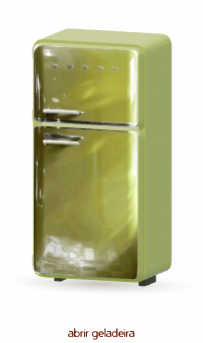
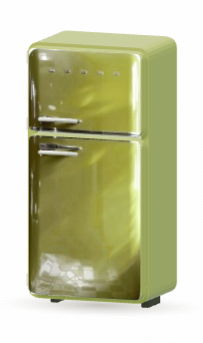
feat(geladeira): guardar fotografias cartas e lembranças no interior

Changed region(s): [[0.1182, 0.0875, 0.8867, 0.9038], [0.3251, 0.9621, 0.6798, 0.9913], [0.3251, 0.0583, 0.3842, 0.0875]]

diff --git a/Kimi_Agent_HIPOCAMPO 3D Interactive Site/hipocampo/public/assets/fridge-showcase.js b/Kimi_Agent_HIPOCAMPO 3D Interactive Site/hipocampo/public/assets/fridge-showcase.js
@@ -6,15 +6,13 @@ export function mountFridgeShowcase(figure) {
   const button = document.createElement('button')
   button.type = 'button'
   button.className = 'fridge-showcase-toggle'
-  button.setAttribute('aria-label', 'Abrir geladeira')
+  button.setAttribute('aria-label', 'Abrir geladeira de memórias')
+  button.setAttribute('aria-description', 'Um arquivo de lembranças: fotografias do acervo, cartas, uma chave e uma fita cassete.')
   button.setAttribute('aria-pressed', 'false')
-  const label = document.createElement('span')
-  label.className = 'fridge-showcase-label'
-  label.textContent = 'abrir geladeira'
-  button.append(label)
   figure.append(button)
   let renderer, scene, camera, model, resize, observer, texture, environment, frame = 0
   let aspect = 1, projectedBounds = null
+  const memoryItems = []
   let open = false, visible = false, angle = 0, target = 0, previous = 0, disposed = false
   const reduced = matchMedia('(prefers-reduced-motion: reduce)')
   const doors = [], geometries = new Set(), materials = new Set(), maps = new Set()
@@ -118,9 +116,78 @@ export function mountFridgeShowcase(figure) {
     environment = pmrem.fromScene(studio, .06)
     scene.environment = environment.texture; pmrem.dispose()
   }
+  const addMemoryArchive = async body => {
+    // Reuse the actual archive images already present on the site.
+    const archiveMaps = await Promise.all(['/images/trail/photo-1.webp', '/images/trail/photo-2.webp', '/images/sobre/gif-3.webp'].map(async url => {
+      try {
+        const map = await new THREE.TextureLoader().loadAsync(url)
+        if (disposed) { map.dispose(); return null }
+        map.colorSpace = THREE.SRGBColorSpace; maps.add(map); return map
+      } catch { return null }
+    }))
+    if (disposed) return
+    const paper = material({ color: '#e9ddc2', roughness: .88, bumpMap: grain, bumpScale: .001 })
+    const cardBack = material({ color: '#ad9370', roughness: .9 })
+    const brass = material({ color: '#b89c61', metalness: .76, roughness: .3 })
+    const tapeCase = material({ color: '#3a3027', roughness: .38, metalness: .06 })
+    const twine = material({ color: '#9a7c50', roughness: .96 })
+    const card = (parent, map, w, h, x, y, z, tilt = 0, reverse = false) => {
+      const group = new THREE.Group(); group.position.set(x, y, z); group.rotation.z = tilt
+      if (reverse) group.rotation.y = Math.PI
+      parent.add(group)
+      rounded(group, w, h, .016, .012, paper)
+      box(group, w - .025, h - .025, .005, cardBack, 0, 0, -.01)
+      if (map) {
+        const print = material({ map, roughness: .84, metalness: 0, envMapIntensity: .2 })
+        mesh(group, new THREE.PlaneGeometry(w * .86, h * .76), print, 0, h * .035, .009)
+      }
+      return group
+    }
+    // Photographs stand on the upper rack like a small album of suspended time.
+    card(body, archiveMaps[0], .66, .47, -.20, 1.145, .18, -.08)
+    card(body, archiveMaps[1], .35, .33, .36, 1.10, .10, .1)
+    card(body, archiveMaps[1], .43, .38, -.30, -.16, .17, -.12)
+    memoryItems.push('fotografias do acervo')
+    // A tied bundle of letters, on the first shelf.
+    const letters = new THREE.Group(); letters.position.set(-.22, .18, .04); letters.rotation.y = -.12; body.add(letters)
+    for (let i = 0; i < 4; i++) {
+      const sheet = rounded(letters, .62, .018, .39, .007, paper, (i % 2) * .013, i * .019, 0)
+      sheet.rotation.y = i % 2 ? .035 : -.025
+    }
+    if (archiveMaps[2]) {
+      const letter = material({ map: archiveMaps[2], roughness: .94 })
+      const top = mesh(letters, new THREE.PlaneGeometry(.56, .34), letter, 0, .078, 0); top.rotation.x = -Math.PI / 2
+    }
+    rod(letters, [[0, -.005, -.205], [0, .09, -.205], [0, .09, .205], [0, -.005, .205], [0, -.005, -.205]], .007, twine)
+    memoryItems.push('cartas guardadas')
+    // The key hints at the house and the cassette at a remembered voice.
+    const key = new THREE.Group(); key.position.set(.30, .19, .12); body.add(key)
+    const ring = mesh(key, new THREE.TorusGeometry(.05, .011, 6, 16), brass); ring.rotation.x = Math.PI / 2
+    box(key, .19, .016, .017, brass, .13)
+    for (const x of [.18, .215]) box(key, .025, .016, .04, brass, x, 0, .018)
+    memoryItems.push('chave da casa')
+    const jar = new THREE.Group(); jar.position.set(.36, -.19, -.015); body.add(jar)
+    mesh(jar, new THREE.CylinderGeometry(.125, .13, .31, 20, 1, true), glass)
+    mesh(jar, new THREE.CylinderGeometry(.14, .14, .026, 20), chrome, 0, .17)
+    for (const [x, z, a] of [[-.037, -.025, -.15], [.04, .035, .14]]) {
+      const roll = mesh(jar, new THREE.CylinderGeometry(.024, .024, .23, 10), paper, x, 0, z); roll.rotation.z = a
+    }
+    memoryItems.push('frasco de lembranças')
+    const cassette = new THREE.Group(); cassette.position.set(.06, -.69, .18); cassette.rotation.z = .05; body.add(cassette)
+    rounded(cassette, .65, .33, .07, .025, tapeCase)
+    rounded(cassette, .55, .22, .006, .012, paper, 0, .015, .039)
+    for (const x of [-.15, .15]) {
+      mesh(cassette, new THREE.TorusGeometry(.052, .012, 6, 16), dark, x, .03, .047)
+      mesh(cassette, new THREE.CircleGeometry(.022, 12), chrome, x, .03, .048)
+    }
+    box(cassette, .45, .025, .006, tapeCase, 0, -.07, .047)
+    memoryItems.push('fita cassete')
+    // The original handwriting also appears among the papers in the door rack.
+    return { card, map: archiveMaps[2] }
+  }
   const setSize = () => {
     if (!renderer) return
-    const width = button.clientWidth, height = Math.max(1, button.clientHeight - 24)
+    const width = button.clientWidth, height = Math.max(1, button.clientHeight)
     renderer.setSize(width, height, false)
     aspect = width / height
     camera.left = -2 * aspect; camera.right = 2 * aspect
@@ -132,7 +199,6 @@ export function mountFridgeShowcase(figure) {
     figure.classList.remove('is-3d-ready')
     button.disabled = true
     button.setAttribute('aria-label', 'Geladeira antiga verde')
-    label.textContent = ''
   }
   const build = async () => {
     if (renderer || disposed) return
@@ -217,6 +283,8 @@ export function mountFridgeShowcase(figure) {
       if (disposed) { texture.dispose(); return }
       texture.colorSpace = THREE.SRGBColorSpace
       maps.add(texture)
+      const memoryArchive = await addMemoryArchive(body)
+      if (disposed) return
       for (const [y, h, imageTop, imageHeight] of [[.97, 1, 20, 79], [-.51, 1.9, 99, 143]]) {
         const map = texture.clone()
         map.repeat.set(108 / 146, imageHeight / 248)
@@ -236,6 +304,7 @@ export function mountFridgeShowcase(figure) {
           for (const x of [.18, 1.26]) rounded(hinge, .035, .13, .21, .012, cream, x, shelfY + .05, -.24)
           rounded(hinge, 1.09, .018, .025, .006, chrome, .72, shelfY + .12, -.34)
         }
+        if (h > 1.5) memoryArchive.card(hinge, memoryArchive.map, .49, .30, .72, .73, -.20, .05, true)
         const handleY = h > 1.5 ? .74 : -.35
         rod(hinge, [[.16, handleY, .11], [.21, handleY + .018, .19], [.57, handleY + .018, .19], [.62, handleY, .11]], .025, chrome)
       }
@@ -249,14 +318,13 @@ export function mountFridgeShowcase(figure) {
     if (button.disabled) return
     open = !open; target = open ? -1.8 : 0
     button.setAttribute('aria-pressed', String(open))
-    button.setAttribute('aria-label', open ? 'Fechar geladeira' : 'Abrir geladeira')
-    label.textContent = open ? 'fechar geladeira' : 'abrir geladeira'
+    button.setAttribute('aria-label', open ? 'Fechar geladeira de memórias' : 'Abrir geladeira de memórias')
     figure.dataset.fridgeOpen = String(open)
     request()
   }
   const lost = event => { event.preventDefault(); cancelAnimationFrame(frame); frame = 0; fallback() }
   const visibility = () => { if (document.hidden) { cancelAnimationFrame(frame); frame = 0; previous = 0 } else request() }
-  figure.fridgeShowcase = { getDiagnostics: () => ({ open, angle, target, visible, frames: renderer?.info.render.frame || 0, triangles: renderer?.info.render.triangles || 0, ready: figure.classList.contains('is-3d-ready'), projectedBounds }) }
+  figure.fridgeShowcase = { getDiagnostics: () => ({ open, angle, target, visible, frames: renderer?.info.render.frame || 0, triangles: renderer?.info.render.triangles || 0, ready: figure.classList.contains('is-3d-ready'), projectedBounds, memoryItems: [...memoryItems] }) }
   const cleanup = () => {
     if (disposed) return
     disposed = true; delete figure.fridgeShowcase; cancelAnimationFrame(frame)

diff --git a/Kimi_Agent_HIPOCAMPO 3D Interactive Site/hipocampo/index.html b/Kimi_Agent_HIPOCAMPO 3D Interactive Site/hipocampo/index.html
@@ -2,7 +2,7 @@
 <html lang="pt-BR">
   <head>
     <meta charset="UTF-8" />
-    <meta name="hipocampo-release" content="realistic-fridge-20261116-2" />
+    <meta name="hipocampo-release" content="fridge-memories-20261116-3" />
     <meta name="viewport" content="width=device-width, initial-scale=1.0" />
     <meta
       name="description"
@@ -21,7 +21,7 @@
     <link rel="stylesheet" href="/assets/page2-motion.css?v=audio-updates-1" />
     <link rel="stylesheet" href="/assets/house-preparation.css?v=house-gpu-2" />
     <link rel="stylesheet" href="/assets/page3-house.css?v=silent-house-1" />
-    <link rel="stylesheet" href="/assets/page4-sobre.css?v=realistic-enamel-2" />
+    <link rel="stylesheet" href="/assets/page4-sobre.css?v=memory-archive-3" />
     <link rel="stylesheet" href="/assets/page5-vestigios.css?v=simulation-layout-1" />
     <link rel="stylesheet" href="/assets/installation-room.css?v=type-installation-1" />
     <link rel="stylesheet" href="/assets/client-update.css?v=kise-link-underline-1" />
@@ -45,7 +45,7 @@
     <script type="module" src="/assets/page2-motion.js?v=mobile-title-flourishes-2"></script>
     <script type="module" src="/assets/memory-map.js?v=touch-immersion-1"></script>
     <script type="module" src="/assets/page3-house.js?v=phone-gestures-1"></script>
-    <script type="module" src="/assets/page4-sobre.js?v=realistic-enamel-2"></script>
+    <script type="module" src="/assets/page4-sobre.js?v=memory-archive-3"></script>
     <script type="module" src="/assets/page5-vestigios.js?v=reference-copy-1"></script>
     <script type="module" src="/assets/editorial-motion.js?v=films-footer-1"></script>
     <script type="module" src="/assets/photo-trail.js?v=phone-gestures-1"></script>

diff --git a/Kimi_Agent_HIPOCAMPO 3D Interactive Site/hipocampo/public/assets/page4-sobre.css b/Kimi_Agent_HIPOCAMPO 3D Interactive Site/hipocampo/public/assets/page4-sobre.css
@@ -99,6 +99,5 @@
 
 .fridge-showcase-toggle { position: absolute; inset: 0; width: 100%; height: 100%; padding: 0; border: 0; background: transparent; color: #7a2a17; font: 400 .85rem/1.3 "SquidBoy", sans-serif; cursor: pointer; touch-action: manipulation; }
 .fridge-showcase-toggle:focus-visible { outline: 2px solid #7a2a17; outline-offset: 4px; }
-.fridge-showcase-canvas { position: absolute; top: 0; left: 0; display: block; width: 100%; height: calc(100% - 24px); }
-.fridge-showcase-label { position: absolute; bottom: 0; left: 0; right: 0; text-align: center; }
+.fridge-showcase-canvas { position: absolute; top: 0; left: 0; display: block; width: 100%; height: 100%; }
 .is-3d-ready > img { opacity: 0; }

diff --git a/Kimi_Agent_HIPOCAMPO 3D Interactive Site/hipocampo/public/assets/page4-sobre.js b/Kimi_Agent_HIPOCAMPO 3D Interactive Site/hipocampo/public/assets/page4-sobre.js
@@ -77,7 +77,7 @@ function init() {
   const near = new IntersectionObserver(entries => {
     if (!entries.some(entry => entry.isIntersecting)) return
     near.disconnect()
-    import('./fridge-showcase.js?v=realistic-enamel-2').then(({ mountFridgeShowcase }) => mountFridgeShowcase(fridge)).catch(() => {})
+    import('./fridge-showcase.js?v=memory-archive-3').then(({ mountFridgeShowcase }) => mountFridgeShowcase(fridge)).catch(() => {})
   }, { rootMargin: '500px 0px' })
   near.observe(fridge)
   window.dispatchEvent(new Event('resize'))

diff --git a/Kimi_Agent_HIPOCAMPO 3D Interactive Site/hipocampo/scripts/test-fridge-showcase.py b/Kimi_Agent_HIPOCAMPO 3D Interactive Site/hipocampo/scripts/test-fridge-showcase.py
@@ -20,7 +20,10 @@ async def main():
    await fig.screenshot(path=str(OUT/f'closed-{w}.png'))
    await button.click();await p.wait_for_function("Math.abs(document.querySelector('.page4-photo--geladeira').fridgeShowcase.getDiagnostics().angle + 1.8) < .002")
    d=await fig.evaluate('e=>e.fridgeShowcase.getDiagnostics()');assert d['open'] and abs(d['angle']+1.8)<.01,d
-   assert d['triangles']<25000,d
+   assert d['triangles']<28000,d
+   assert len(d['memoryItems'])==5,d
+   assert await button.inner_text()==''
+   assert await fig.locator('.fridge-showcase-label').count()==0
    assert d['projectedBounds']['min']>=-.95 and d['projectedBounds']['max']<=.95,d
    await fig.screenshot(path=str(OUT/f'open-{w}.png'))
    a=await fig.evaluate('e=>e.fridgeShowcase.getDiagnostics().frames');await p.wait_for_timeout(250);z=await fig.evaluate('e=>e.fridgeShowcase.getDiagnostics().frames');assert a==z,(a,z)

diff --git a/Kimi_Agent_HIPOCAMPO 3D Interactive Site/hipocampo/design-qa.md b/Kimi_Agent_HIPOCAMPO 3D Interactive Site/hipocampo/design-qa.md
@@ -849,3 +849,11 @@ final result: passed
 - Build, sintaxe e diff aprovados. `scripts/test-fridge-showcase.py` passa em 1440×900/390×844: distância entre carta/geladeira, abertura, fechamento por teclado, enquadramento sem cortes, orçamento abaixo de 25 mil triângulos, parada da renderização e alinhamento do texto/câmera. Aguarda estado final da porta em vez de supor um FPS fixo do navegador de teste.
 - Preferência por movimento reduzido e perda de contexto com retorno à fotografia estática também verificadas. Evidências atualizadas: `docs/fridge-showcase-closed.png`, `docs/fridge-showcase-open-mobile.png`, `docs/fridge-showcase-realistic-open.png`.
 - final result: passed
+
+### 2026-11-16 — arquivo de memórias dentro da geladeira
+- Removidos os textos visíveis abrir/fechar geladeira e o espaço reservado à legenda. Botão mantém nome e descrição acessíveis, estado de abertura e controle por clique, toque e teclado.
+- Interior recebe fotografias reais do acervo já usado no site, cartas amarradas, uma chave, um frasco com papéis e uma fita cassete. Pequenos objetos físicos nas prateleiras e um cartão na porta; não adicionadas animações contínuas ou downloads externos.
+- Mantidos materiais, luz, enquadramento das portas e textura original da frente. Arquivo de memórias descrito para leitores de tela.
+- Build/sintaxe/diff aprovados. Teste permanente em 1440×900 e 390×844 valida cinco grupos de lembranças, ausência de legenda, abertura/fechamento, teclado, portas inteiras e pausa da renderização em repouso/fora da tela. Modelo de 26.050 triângulos dentro do orçamento de 28 mil. Preferência por movimento reduzido e perda de contexto com foto estática também aprovadas.
+- Evidências atualizadas: `docs/fridge-showcase-closed.png`, `docs/fridge-showcase-open-mobile.png`, `docs/fridge-showcase-realistic-open.png`.
+- final result: passed
